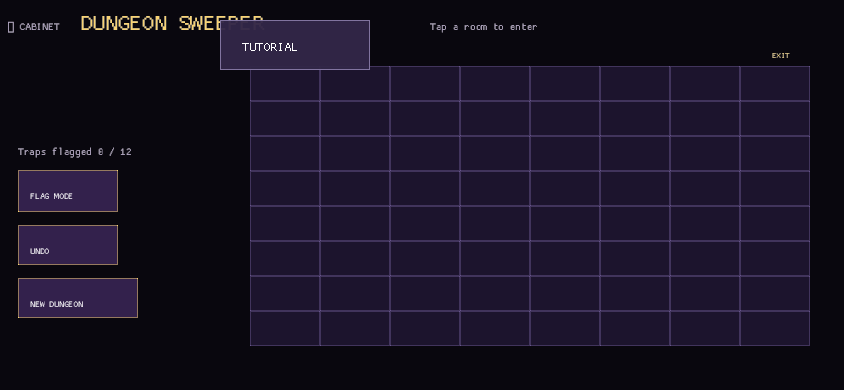
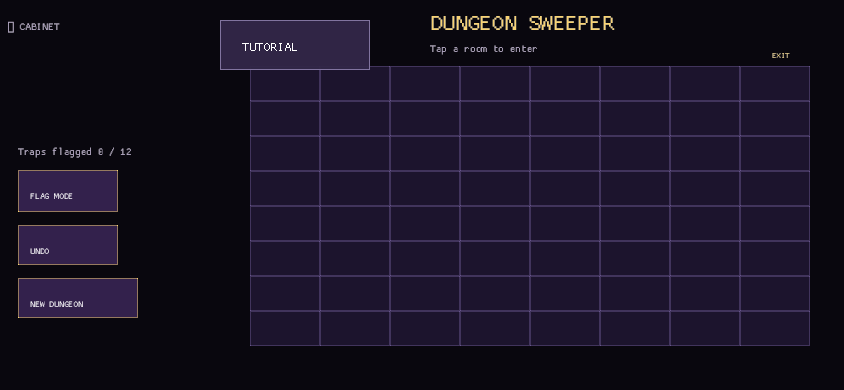
The dungeon clues speak in chorus (Dungeon Sweeper post-launch expedition)
Dungeon Sweeper now preserves whether a flag marks a real trap, supports tapping satisfied clues to chord open neighboring rooms, and records the complete action in undo history. The touch presentation makes flag mode explicit, teaches the chord interaction, and keeps the title and status readable across desktop, portrait, and compact landscape layouts.\n\nFocused rule tests, responsive captures, and the publisher gate verify the post-launch expedition.

Changed region(s): [[0.4929, 0.0308, 0.7393, 0.0923], [0.0924, 0.0308, 0.3081, 0.0923], [0.5237, 0.1231, 0.6469, 0.1538]]

diff --git a/src/dungeon_sweeper.rs b/src/dungeon_sweeper.rs
@@ -11,6 +11,7 @@ pub enum DungeonCell {
     Hidden,
     Trap,
     Flagged,
+    FlaggedTrap,
     Revealed(u8),
 }
 
@@ -64,9 +65,15 @@ impl DungeonSweeper {
     pub fn reveal(&mut self, index: usize) -> bool {
         if index >= self.cells.len()
             || !matches!(self.status, DungeonStatus::Ready | DungeonStatus::Playing)
-            || !matches!(self.cells[index], DungeonCell::Hidden | DungeonCell::Trap)
+            || !matches!(
+                self.cells[index],
+                DungeonCell::Hidden | DungeonCell::Trap | DungeonCell::Revealed(_)
+            )
         {
             return false;
+        }
+        if matches!(self.cells[index], DungeonCell::Revealed(_)) {
+            return self.chord(index);
         }
         if !self.first_reveal {
             self.place_traps(index);
@@ -87,6 +94,59 @@ impl DungeonSweeper {
         true
     }
 
+    pub fn chord(&mut self, index: usize) -> bool {
+        if index >= self.cells.len()
+            || self.status != DungeonStatus::Playing
+            || !matches!(self.cells[index], DungeonCell::Revealed(_))
+        {
+            return false;
+        }
+        let clue = match self.cells[index] {
+            DungeonCell::Revealed(value) => value,
+            _ => unreachable!(),
+        };
+        let neighbors: Vec<_> = self.neighbors(index).collect();
+        let flagged = neighbors
+            .iter()
+            .filter(|&&neighbor| {
+                matches!(
+                    self.cells[neighbor],
+                    DungeonCell::Flagged | DungeonCell::FlaggedTrap
+                )
+            })
+            .count() as u8;
+        if flagged != clue {
+            return false;
+        }
+        let hidden: Vec<_> = neighbors
+            .into_iter()
+            .filter(|&neighbor| {
+                matches!(
+                    self.cells[neighbor],
+                    DungeonCell::Hidden | DungeonCell::Trap
+                )
+            })
+            .collect();
+        if hidden.is_empty() {
+            return false;
+        }
+        self.snapshot();
+        self.moves = self.moves.saturating_add(1);
+        for neighbor in hidden {
+            if matches!(self.cells[neighbor], DungeonCell::Trap) {
+                self.cells[neighbor] = DungeonCell::Revealed(9);
+                self.status = DungeonStatus::Lost;
+                break;
+            }
+            self.cells[neighbor] = DungeonCell::Revealed(self.adjacent_traps(neighbor));
+            if neighbor == self.exit {
+                self.status = DungeonStatus::Won;
+                break;
+            }
+        }
+        true
+    }
+
     pub fn toggle_flag(&mut self, index: usize) -> bool {
         if index >= self.cells.len()
             || !matches!(self.status, DungeonStatus::Ready | DungeonStatus::Playing)
@@ -95,7 +155,9 @@ impl DungeonSweeper {
         }
         match self.cells[index] {
             DungeonCell::Hidden => self.cells[index] = DungeonCell::Flagged,
+            DungeonCell::Trap => self.cells[index] = DungeonCell::FlaggedTrap,
             DungeonCell::Flagged => self.cells[index] = DungeonCell::Hidden,
+            DungeonCell::FlaggedTrap => self.cells[index] = DungeonCell::Trap,
             _ => return false,
         }
         true
@@ -104,13 +166,18 @@ impl DungeonSweeper {
     pub fn flagged_count(&self) -> usize {
         self.cells
             .iter()
-            .filter(|cell| matches!(cell, DungeonCell::Flagged))
+            .filter(|cell| matches!(cell, DungeonCell::Flagged | DungeonCell::FlaggedTrap))
             .count()
     }
 
     pub fn adjacent_traps(&self, index: usize) -> u8 {
         self.neighbors(index)
-            .filter(|&neighbor| matches!(self.cells[neighbor], DungeonCell::Trap))
+            .filter(|&neighbor| {
+                matches!(
+                    self.cells[neighbor],
+                    DungeonCell::Trap | DungeonCell::FlaggedTrap
+                )
+            })
             .count() as u8
     }
 

diff --git a/src/dungeon_sweeper_ui.rs b/src/dungeon_sweeper_ui.rs
@@ -64,9 +64,9 @@ pub fn draw(state: &AppState) {
     let compact = crate::ui::is_compact_landscape();
     let portrait = crate::ui::is_portrait();
     let x = if compact {
-        80.
+        430.
     } else if portrait {
-        10.
+        16.
     } else {
         400.
     };
@@ -82,7 +82,7 @@ pub fn draw(state: &AppState) {
     text(
         &status_text(game.status, game.moves),
         if compact { 430. } else { x },
-        if compact { 30. } else { y + 25. },
+        if compact { 52. } else { y + 25. },
         body_size(),
         muted(),
     );
@@ -105,8 +105,8 @@ pub fn draw(state: &AppState) {
             1.,
             Color::new(0.40, 0.33, 0.55, 1.),
         );
-        let show_trap =
-            matches!(game.status, DungeonStatus::Lost) && matches!(cell, DungeonCell::Trap);
+        let show_trap = matches!(game.status, DungeonStatus::Lost)
+            && matches!(cell, DungeonCell::Trap | DungeonCell::FlaggedTrap);
         if show_trap {
             text(
                 "×",
@@ -131,7 +131,7 @@ pub fn draw(state: &AppState) {
                 cell_size(),
                 WHITE,
             );
-        } else if matches!(cell, DungeonCell::Flagged) {
+        } else if matches!(cell, DungeonCell::Flagged | DungeonCell::FlaggedTrap) {
             text(
                 "⚑",
                 rect.x + rect.w * 0.30,
@@ -155,7 +155,14 @@ pub fn draw(state: &AppState) {
         body_size(),
         muted(),
     );
-    button(l.flag, "FLAG MODE");
+    button(
+        l.flag,
+        if state.mine_flag_mode {
+            "FLAG MODE ON"
+        } else {
+            "FLAG MODE"
+        },
+    );
     button(l.undo, "UNDO");
     button(l.new_game, "NEW DUNGEON");
 }
@@ -163,7 +170,7 @@ use crate::grid::GridLayout;
 fn status_text(status: DungeonStatus, moves: u16) -> String {
     match status {
         DungeonStatus::Ready => "Tap a room to enter".into(),
-        DungeonStatus::Playing => format!("Find the exit  •  {} moves", moves),
+        DungeonStatus::Playing => format!("Find EXIT • tap clues to chord • {} moves", moves),
         DungeonStatus::Won => "The quiet exit is found".into(),
         DungeonStatus::Lost => "A trap closed the path".into(),
     }

diff --git a/src/dungeon_sweeper/tests.rs b/src/dungeon_sweeper/tests.rs
@@ -39,3 +39,64 @@ fn exit_wins_and_traps_lose() {
     assert!(lost.reveal(trap));
     assert_eq!(lost.status, DungeonStatus::Lost);
 }
+
+#[test]
+fn matching_flags_chord_open_adjacent_rooms_and_undo() {
+    let mut game = DungeonSweeper::new(4);
+    game.cells = vec![DungeonCell::Hidden; 64];
+    game.cells[0] = DungeonCell::Revealed(1);
+    game.cells[1] = DungeonCell::FlaggedTrap;
+    game.cells[8] = DungeonCell::Hidden;
+    game.status = DungeonStatus::Playing;
+    game.first_reveal = true;
+    game.seed = 99;
+
+    assert!(game.chord(0));
+    assert!(matches!(game.cells[8], DungeonCell::Revealed(1)));
+    assert_eq!(game.moves, 1);
+    assert!(game.undo());
+    assert!(matches!(game.cells[8], DungeonCell::Hidden));
+    assert_eq!(game.moves, 0);
+}
+
+#[test]
+fn chord_requires_matching_flags_and_revealed_taps_use_it() {
+    let mut game = DungeonSweeper::new(5);
+    game.cells = vec![DungeonCell::Hidden; 64];
+    game.cells[0] = DungeonCell::Revealed(1);
+    game.cells[1] = DungeonCell::Trap;
+    game.cells[8] = DungeonCell::Hidden;
+    game.status = DungeonStatus::Playing;
+    game.first_reveal = true;
+
+    assert!(!game.chord(0));
+    assert_eq!(game.moves, 0);
+    game.cells[1] = DungeonCell::FlaggedTrap;
+    assert!(game.reveal(0));
+    assert!(matches!(game.cells[8], DungeonCell::Revealed(1)));
+}
+
+#[test]
+fn trap_flags_round_trip_and_wrong_chord_can_lose() {
+    let mut flags = DungeonSweeper::new(6);
+    assert!(flags.reveal(0));
+    let trap = flags
+        .cells
+        .iter()
+        .position(|cell| matches!(cell, DungeonCell::Trap))
+        .unwrap();
+    assert!(flags.toggle_flag(trap));
+    assert!(matches!(flags.cells[trap], DungeonCell::FlaggedTrap));
+    assert!(flags.toggle_flag(trap));
+    assert!(matches!(flags.cells[trap], DungeonCell::Trap));
+
+    let mut game = DungeonSweeper::new(7);
+    game.cells = vec![DungeonCell::Hidden; 64];
+    game.cells[0] = DungeonCell::Revealed(1);
+    game.cells[1] = DungeonCell::Flagged;
+    game.cells[8] = DungeonCell::Trap;
+    game.status = DungeonStatus::Playing;
+    game.first_reveal = true;
+    assert!(game.chord(0));
+    assert_eq!(game.status, DungeonStatus::Lost);
+}

diff --git a/src/tutorial_ui.rs b/src/tutorial_ui.rs
@@ -214,7 +214,7 @@ fn instructions(game: GameId) -> [&'static str; 3] {
         ],
         GameId::DungeonSweeper => [
             "Tap a room to reveal its trap clue.",
-            "Use FLAG MODE for traps and follow the clues to the EXIT.",
+            "Use FLAG MODE, then tap a revealed clue to chord nearby rooms.",
             "Reach EXIT; use UNDO or NEW DUNGEON with visible controls.",
         ],
         GameId::Potion2048 => [

diff --git a/src/responsive_landscape.rs b/src/responsive_landscape.rs
@@ -449,7 +449,7 @@ fn tutorial_lines(game: GameId) -> [&'static str; 3] {
         ],
         GameId::DungeonSweeper => [
             "Tap a room to reveal its clue or use FLAG MODE.",
-            "Follow the quiet clues to the EXIT.",
+            "Tap a revealed clue after flags match to chord nearby rooms.",
             "Use UNDO or NEW DUNGEON with visible controls.",
         ],
         GameId::Potion2048 => [

diff --git a/TODO.md b/TODO.md
@@ -592,11 +592,22 @@ sizes, covered by rule tests, and passes `publish.ps1`.
   - [x] Add responsive desktop, portrait, and medium-landscape presentation,
     visible controls, records, and verification captures.
 
+## Phase 43 — Dungeon Sweeper post-launch expedition
+
+- [x] Refine Dungeon Sweeper with real trap-aware flags and a Minesweeper-style
+  chord action that opens neighboring rooms when a revealed clue is satisfied.
+  - [x] Cover matching and mismatched flags, revealed-clue taps, chord loss,
+    undo history, and flagged-trap persistence with focused rule tests.
+  - [x] Update the touch presentation, active flag-mode label, tutorial wording,
+    and responsive title/status spacing for desktop, portrait, and landscape.
+  - [x] Capture the refined Dungeon Sweeper layouts and verify the full publish
+    path after the rules and presentation update.
+
 ## Post-launch candidates (not scheduled)
 
 - Puzzles/tabletop: no remaining scheduled candidates.
 - Arcade: no remaining scheduled candidates.
-- Original cabinet games: Dungeon Sweeper.
+- Original cabinet games: no remaining scheduled candidates.
 
 Do not begin a post-launch candidate until the eight-game first collection is
 touch-complete and the shared system it would reuse is stable.
